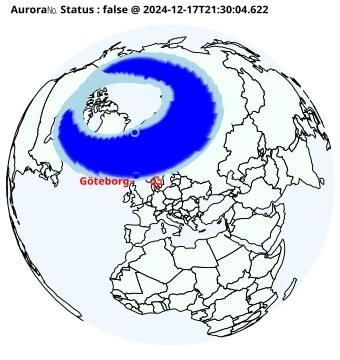
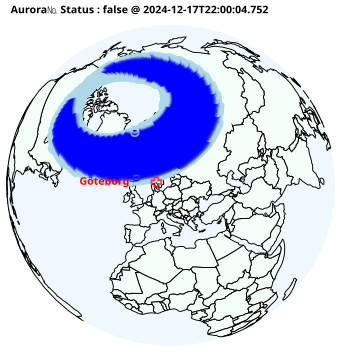
20241217220018 added aur.html

diff --git a/aur.html b/aur.html
@@ -7,6 +7,6 @@
 <body>
     <h1>Aurora Watch</h1>
     <img src="a.png" alt="Aurora Image" style="width:100%;max-width:600px;">
-    <p>Aurora Level 🌌= (1.0) was observed. (2024-12-17T21:30:04.622)</p>
+    <p>Aurora Level 🌌= (2.0) was observed. (2024-12-17T22:00:04.752)</p>
 </body>
 </html>
